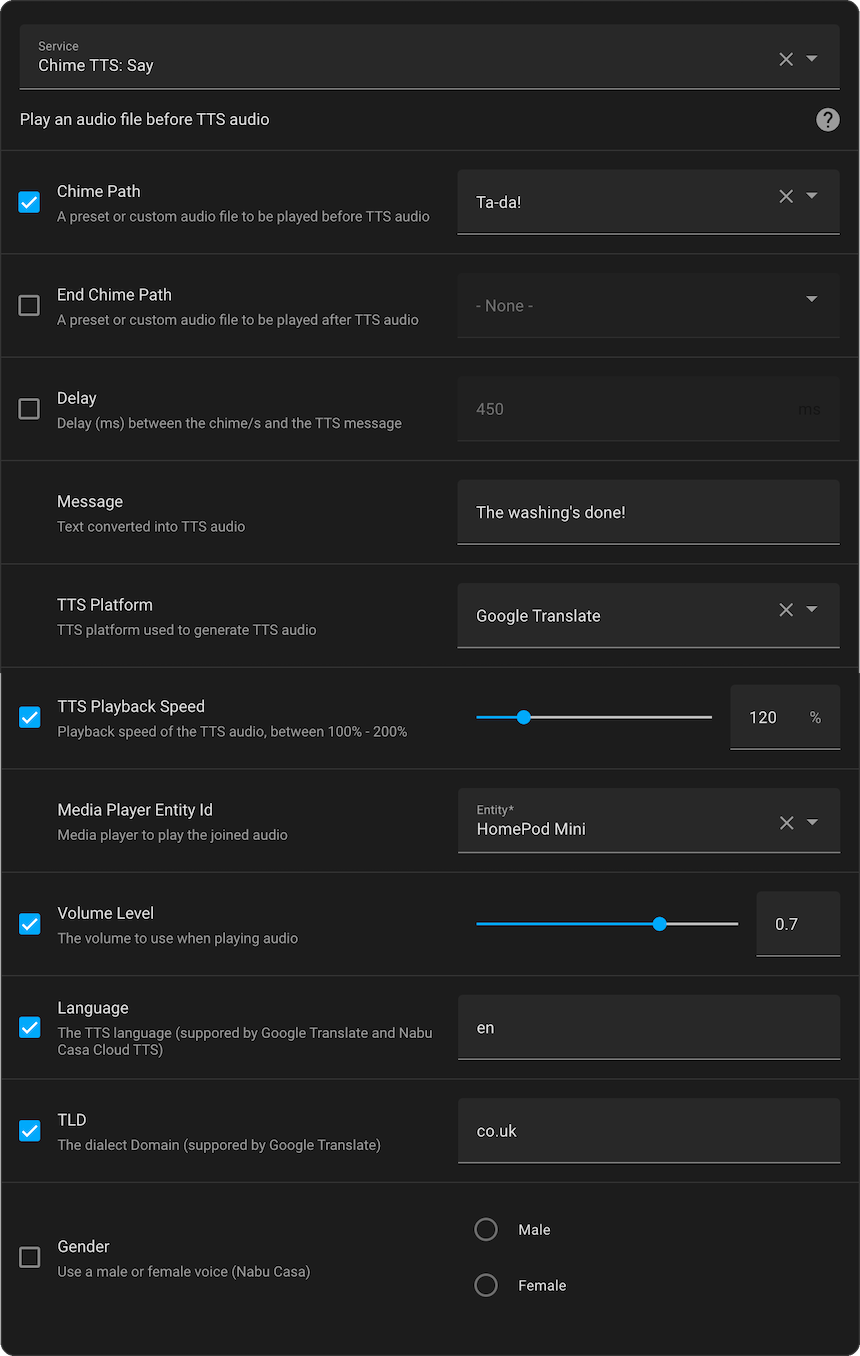
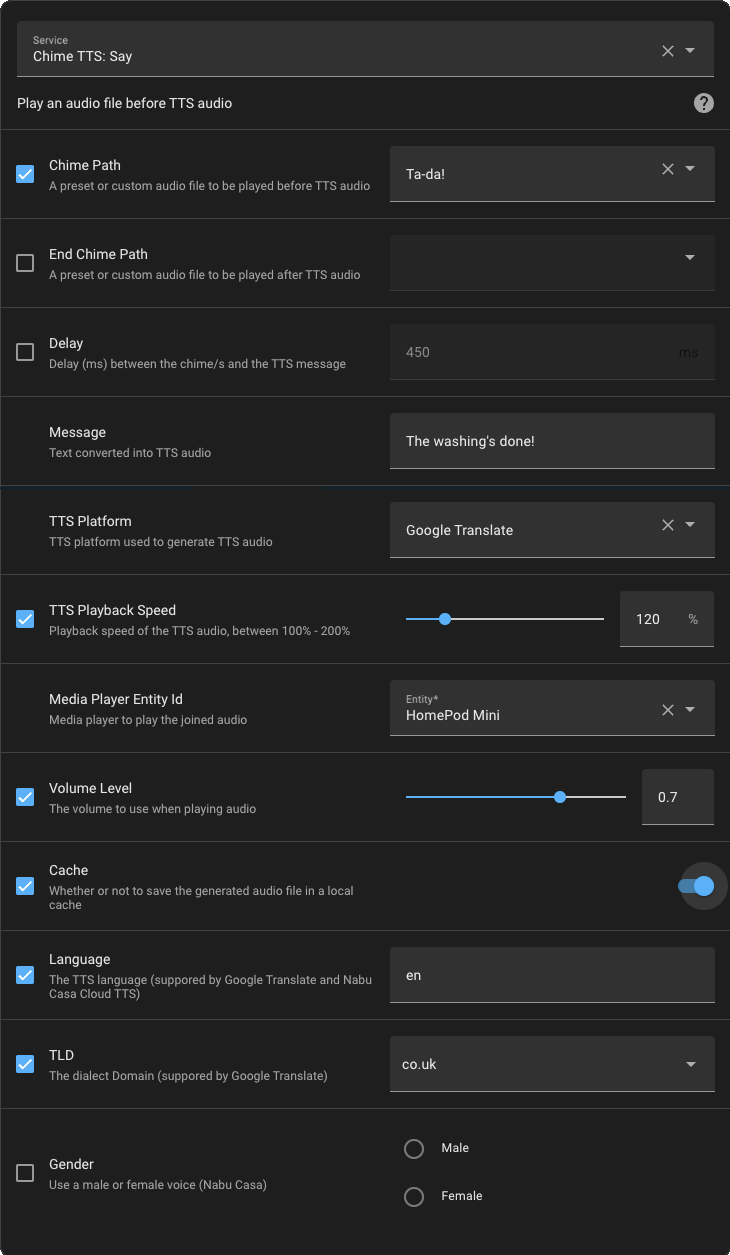
Added caching feature and clear cache service to README.md

diff --git a/README.md b/README.md
@@ -27,6 +27,8 @@ Chime TTS offers the following enhancements for TTS audio playback:
 
 * **Configurable delay:** Set a custom delay period between audio files and TTS audio.
 
+* **Caching:** Audio created by Chime TTS can be cached for faster playback in future service calls.
+
 
 # Quick start
 
@@ -57,12 +59,15 @@ Chime TTS uses Home Assistant's [tts_get_url](https://www.home-assistant.io/inte
 5. Navigate to: `Settings` -> `Devices and Services` -> `Add Integration`, and then type: *Chime TTS* (if it does not appear empty your browser cache and reload the page).
 6. Paste in your token and then click `Submit`.
 
-# Configuration
+# Services
 
-## Standard parameters
+## chime_tts.say
+
+The `chime_tts.say` service supports the following parameters:
+
 | Name                   | YAML Key             | Required? | Description                                                                                                                                                          | Default |
 | ---------------------- | -------------------- | --------- | -------------------------------------------------------------------------------------------------------------------------------------------------------------------- | ------- |
-| Chime Path             | `chime_path`         |           | Either an audio preset or a local audio file path to be played **before** the TTS message.                                                                           | Bells   |
+| Chime Path             | `chime_path`         |           | Either an audio preset or a local audio file path to be played **before** the TTS message.                                                                           | None    |
 | End Chime Path         | `end_chime_path`     |           | Either an audio preset or a local audio file path to be played **after** the TTS message.                                                                            | None    |
 | Delay                  | `delay`              |           | Delay (ms) between chime audio and the TTS message                                                                                                                   | 450ms   |
 | Message                | `message`            | Required  | The text to be converted into TTS audio                                                                                                                              | None    |
@@ -70,25 +75,24 @@ Chime TTS uses Home Assistant's [tts_get_url](https://www.home-assistant.io/inte
 | TTS Playback Speed     | `tts_playback_speed` |           | The desired playback speed for the TTS audio, anywhere from 100% - 200%                                                                                              | 100     |
 | Media Player Entity Id | `media_player`       | Required  | The entity_id of the media player to play the audio.                                                                                                                 | None    |
 | Volume Level           | `volume_level`       |           | The volume level (between 0.0 - 1.0) to play the audio. The original value will be restored after playback.                                                          | 1       |
+| Cache                  | `cache`              |           | Save generated audio to the cache for reuse in future service calls.                                                                                                 | False   |
 
-## Additional parameters (not supported by all TTS platforms)
+### Additional parameters (not supported by all TTS platforms)
 | Name     | Parameter  | Required? | Description                | Supported TTS Platforms                                                                                                                       | Default |
 | -------- | ---------- | --------- | -------------------------- | --------------------------------------------------------------------------------------------------------------------------------------------- | ------- |
 | Language | `language` |           | The speech language to use | [Google Translate](https://www.home-assistant.io/integrations/google_translate/), [Nabu Casa Cloud TTS](https://www.nabucasa.com/config/tts/) | None    |
 | TLD      | `tld`      |           | The dialect domain         | [Google Translate](https://www.home-assistant.io/integrations/google_translate/)                                                              | None    |
 | Gender   | `gender`   |           | Use a male or female voice | [Nabu Casa Cloud TTS](https://www.nabucasa.com/config/tts/)                                                                                   | None    |
 
-# Calling Service from Home Assistant
-
-## From the UI
+### From the UI
 
 <picture>
-<source media="(prefers-color-scheme: dark)" srcset="https://raw.githubusercontent.com/nimroddolev/chime_tts/main/images/call_service_from_ui-dark.png?v=2">
-<source media="(prefers-color-scheme: light)" srcset="https://raw.githubusercontent.com/nimroddolev/chime_tts/main/images/call_service_from_ui-light.png?v=2">
-<img alt="Screenshot of the parameters for the Chime TTS service in the UI" src="https://raw.githubusercontent.com/nimroddolev/chime_tts/main/images/call_service_from_ui-light?v=2">
+<source media="(prefers-color-scheme: dark)" srcset="https://raw.githubusercontent.com/nimroddolev/chime_tts/main/images/call_service_from_ui-dark.png?v=3">
+<source media="(prefers-color-scheme: light)" srcset="https://raw.githubusercontent.com/nimroddolev/chime_tts/main/images/call_service_from_ui-light.png?v=3">
+<img alt="Screenshot of the parameters for the Chime TTS say service in the UI" src="https://raw.githubusercontent.com/nimroddolev/chime_tts/main/images/call_service_from_ui-light?v=3">
 </picture>
 
-## From YAML
+### From YAML
 
 ```
 service: chime_tts.say
@@ -98,9 +102,29 @@ data:
   tts_platform: google_translate
   tts_playback_speed: 120
   entity_id: media_player.homepod_mini
+  volume_level: 0.7
+  cache: true
   language: en
   tld: co.uk
-  volume_level: 0.7
+```
+
+## chime_tts.clear_cache
+
+The `chime_tts.clear_cache` service removes all genenrated audio cache files & referennces to cached TTS audio.
+
+### From the UI
+
+
+<picture>
+<source media="(prefers-color-scheme: dark)" srcset="https://raw.githubusercontent.com/nimroddolev/chime_tts/main/images/call_service_clear_cache_from_ui-dark.png">
+<source media="(prefers-color-scheme: light)" srcset="https://raw.githubusercontent.com/nimroddolev/chime_tts/main/images/call_service_clear_cache_from_ui-light.png">
+<img alt="Screenshot of the parameters for the Chime TTS clear cache service in the UI" src="https://raw.githubusercontent.com/nimroddolev/chime_tts/main/images/call_service_clear_cache_from_ui-light.pnng">
+</picture>
+
+### From YAML
+
+```
+service: chime_tts.clear_cache
 ```
 
 # Show your support 👍
